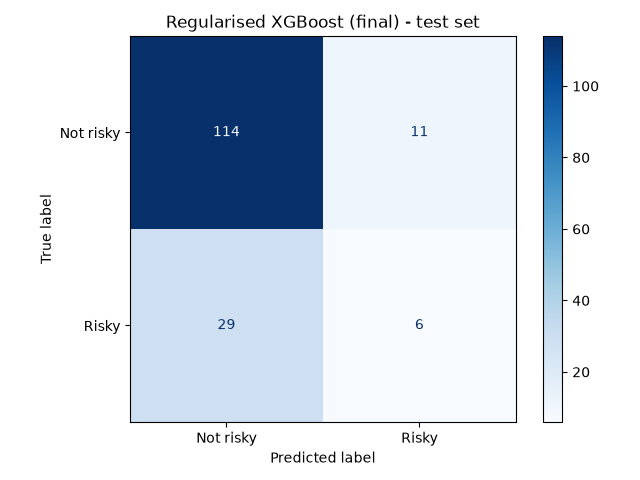
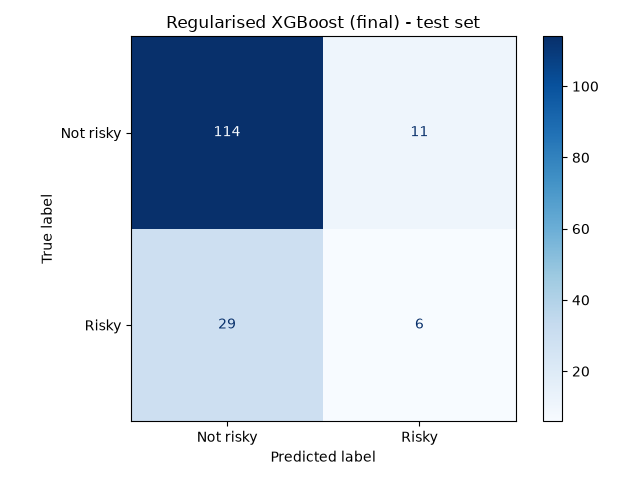
updating readme

diff --git a/src/main.py b/src/main.py
@@ -1,7 +1,4 @@
-"""Compare the supplied models; assessed advisory rules are NOT provided."""
-
 from pathlib import Path
-
 import joblib
 import matplotlib.pyplot as plt
 import pandas as pd

diff --git a/README.md b/README.md
@@ -1,31 +1,79 @@
-# Mortgage decision-support starter · DN6MD001 Assignment 2
+# Mortgage Credit-Risk Decision Support
 
-This is a **working, deliberately limited tutor-provided ML baseline**; it is **not a finished Assignment 2 solution**. Read `../START_HERE.md`, `../CODE_WALKTHROUGH.md`, `../DATA_DICTIONARY.md` and the approved brief in the parent folder.
+A decision-support prototype for DN6MD001 Assignment 2, using synthetic mortgage applicant data to estimate repayment risk.
+It combines a model score with advisory rules to suggest a review level for a human reviewer. It never approves or declines applications.
 
-## Quick start (Windows PowerShell from this folder)
+## Requirements
+
+Use Python 3.13 and create a fresh virtual environment. Dependency versions are pinned in `requirements.txt`.
+On macOS, install XGBoost's OpenMP dependency first: `brew install libomp`.
+
+## Setup and run
+
+Run these commands in order from the project folder.
+
+### Windows (PowerShell)
 
 ```powershell
-py -m venv .venv
+py -3.13 -m venv .venv
 .\.venv\Scripts\python.exe -m pip install -r requirements.txt
 .\.venv\Scripts\python.exe -m src.data
+.\.venv\Scripts\python.exe -m src.evaluate
+.\.venv\Scripts\python.exe -m src.improve
 .\.venv\Scripts\python.exe -m src.main
 .\.venv\Scripts\python.exe -m src.applicant_example
 .\.venv\Scripts\python.exe -m unittest discover -s tests -v
 ```
 
-The supplied dataset is already in `data/A2 Mortgage Credit Risk Dataset.csv`. The program uses only **synthetic data**. Do not use real applicant details.
+### macOS / Linux
 
-### What is working?
-- Data audit (`src/data.py`)
-- A basic two-feature Logistic Regression pipeline with training-only imputation/scaling, a majority-class reference and initial held-out evaluation (`src/model.py`, `src/main.py`)
-- Saved model and sample applicant **scoring** (not decision-making) (`src/applicant_example.py`)
-- Four generic validation tests (`tests/test_validation.py`)
+```bash
+python3 -m venv .venv
+.venv/bin/python -m pip install -r requirements.txt
+.venv/bin/python -m src.data
+.venv/bin/python -m src.evaluate
+.venv/bin/python -m src.improve
+.venv/bin/python -m src.main
+.venv/bin/python -m src.applicant_example
+.venv/bin/python -m unittest discover -s tests -v
+```
 
-### What is your independent assignment work?
+Run `src.main` before `src.applicant_example`; it saves the model used by the examples.
 
-Develop, justify and test your own logical decision rules and their integration with the model; make evidence-informed modelling/evaluation decisions, carry out meaningful improvement and retesting, document decisions and sources, and maintain Git/GitHub version history. The intentionally incomplete `advisory_decision()` in `src/decisions.py` is not an error in the supplied training/scoring example.
+## What the commands produce
 
-**Data note:** The synthetic dataset is supplied in the DN6MD001 assignment pack and is included in this repository at `data/A2 Mortgage Credit Risk Dataset.csv`. It contains synthetic data only
-**Academic integrity:** Acknowledge module-provided code and any permitted AI assistance under the approved brief. Keep the final report and project evidence consistent.
+- `src.data`: data audit.
+- `src.evaluate`: validation results, a threshold sweep, and charts.
+- `src.improve`: parameter grid, cross-validation comparison, and improved-model sweep.
+- `src.main`: model test results, a confusion matrix, and the advisory-system summary.
+- `src.applicant_example`: example scores and advisory outcomes.
+- `unittest`: 21 tests.
 
-**AI-assisted comments:** All comments placed beneath variable declarations in this repository were generated with AI to improve code readability.
+## Project structure
+
+- `src/data.py` — loads the dataset and prints its core audit.
+- `src/audit.py` — reports summary statistics and missing-data patterns.
+- `src/model.py` — builds, trains, and evaluates the model pipelines.
+- `src/evaluate.py` — evaluates a validation set and plots a threshold sweep.
+- `src/improve.py` — compares XGBoost settings and evaluates an improved model.
+- `src/decisions.py` — validates applications and applies advisory review rules.
+- `src/main.py` — runs the model comparisons and advisory-system evaluation.
+- `src/applicant_example.py` — scores sample applications and prints advisory outcomes.
+- `tests/` — 21 tests covering decision rules, validation, and boundaries.
+- `requirements.txt` — pinned dependency versions.
+
+## Reproducibility
+
+Package versions are pinned. The regularised model uses no random row or column sampling (`subsample` and `colsample_bytree` are set to 1.0) and a fixed seed of 42. Results are identical across the tested Windows, macOS, and Linux setups.
+
+## Data note
+
+The synthetic dataset is supplied in the DN6MD001 assignment pack and is included in this repository at `data/A2 Mortgage Credit Risk Dataset.csv`.
+
+## Module-supplied code
+
+The module supplied the starter Logistic Regression benchmark, data loading, `validate_application_fields`, `validate_score`, and four original tests in `test_validation.py`. The remaining implementation and tests are my work.
+
+## AI use
+
+GitHub Copilot helped with code suggestions, autocomplete and debugging. I reviewed and tested the code. Claude assisted with planning, review and checking results. 
